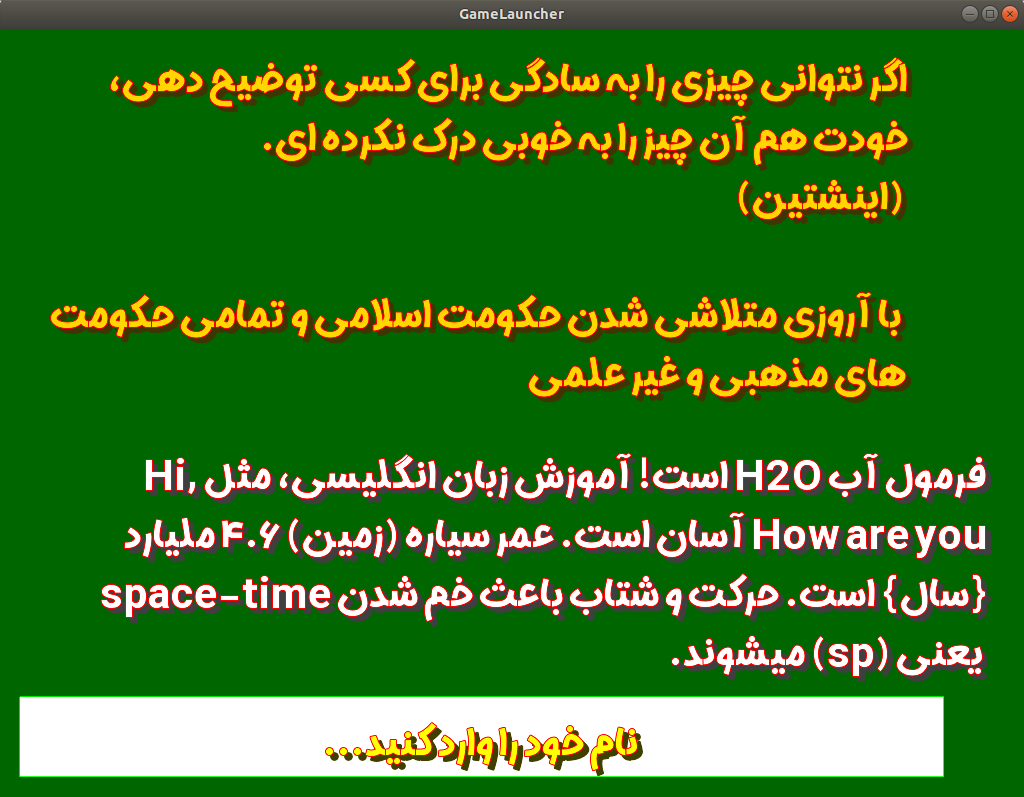
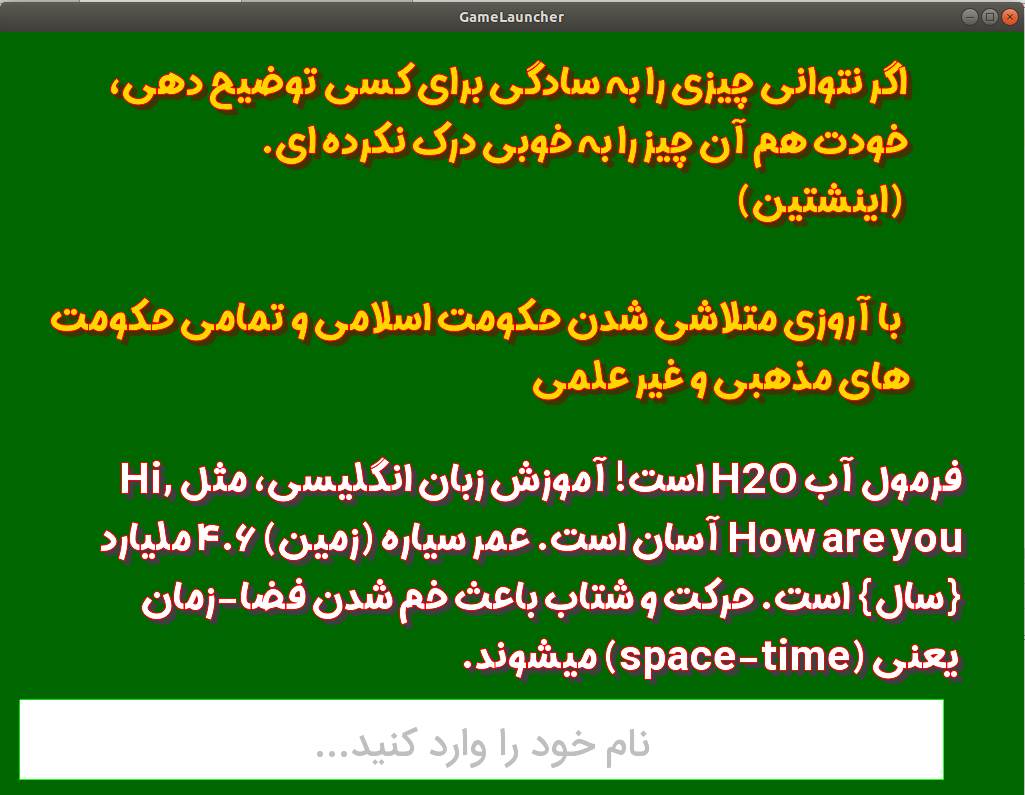
some code comment removed

Changed region(s): [[0.0, 0.5736, 0.9688, 0.9962], [0.0, 0.0, 1.0, 0.3019], [0.0312, 0.3623, 0.9062, 0.5132]]

diff --git a/core/src/deep/richi/libgdx/MainScreen.java b/core/src/deep/richi/libgdx/MainScreen.java
@@ -22,7 +22,7 @@ import deep.richi.libgdx.rtl.RtlFreeTypeFontGenerator;
 public class MainScreen extends BaseScreen {
 
     private static final String EINSTEIN_TEXT = "اگر نتوانی چیزی را به سادگی برای کسی توضیح دهی، خودت هم آن چیز را به خوبی درک نکرده ای.\n (اینشتین)\n\n با آروزی متلاشی شدن حکومت اسلامی و تمامی حکومت های مذهبی و غیر علمی";
-    private static final String WRAP_FULL_TEST_SEQUENCE = "فرمول آب H2O است! آموزش زبان انگلیسی، مثل Hi, How are you آسان است. عمر سیاره (زمین) 4.6 ملیارد {سال} است. حرکت و شتاب باعث خم شدن space-time یعنی (sp) میشوند.";
+    private static final String WRAP_FULL_TEST_SEQUENCE = "فرمول آب H2O است! آموزش زبان انگلیسی، مثل Hi, How are you آسان است. عمر سیاره (زمین) 4.6 ملیارد {سال} است. حرکت و شتاب باعث خم شدن فضا-زمان یعنی (space-time) میشوند.";
     private BitmapFont rtlBitmapFont;
     //==============================================================
     // METHODS
@@ -77,7 +77,6 @@ public class MainScreen extends BaseScreen {
         textField.getStyle().background = new Image(new Texture(labelColor)).getDrawable();
     }
     private BitmapFont createRtlBitmapFont() {
-//        RtlFreeTypeFontGenerator generator = new RtlFreeTypeFontGenerator(Gdx.files.internal("fonts/aaa.ttf"));
         RtlFreeTypeFontGenerator generator = new RtlFreeTypeFontGenerator(Gdx.files.internal("fonts/Sarbaz.ttf"));
 //        RtlFreeTypeFontGenerator generator = new RtlFreeTypeFontGenerator(Gdx.files.internal("fonts/IRANSansMobile_Medium.ttf"));
 //        RtlFreeTypeFontGenerator generator = new RtlFreeTypeFontGenerator(Gdx.files.internal("fonts/Parvin-Regular.ttf"));

diff --git a/core/src/deep/richi/libgdx/rtl/RtlController.java b/core/src/deep/richi/libgdx/rtl/RtlController.java
@@ -425,11 +425,6 @@ public class RtlController {
             persianGlyphs.insert(0,persianGlyphs.get(persianGlyphs.size-1));
             persianGlyphs.removeIndex(persianGlyphs.size-1);
         }
-//        if(englishOffset > 0 && rtGlyphs.get(englishOffset).id == SPACE_CHAR)
-//        {
-//            rtGlyphs.insert(0,rtGlyphs.get(englishOffset));
-//            rtGlyphs.removeIndex(englishOffset+1);
-//        }
         int indexForAdd = 0;
         if(isEnglishContext)  indexForAdd = rtGlyphs.size;
         for (int i = 0; i < persianGlyphs.size; i++)
